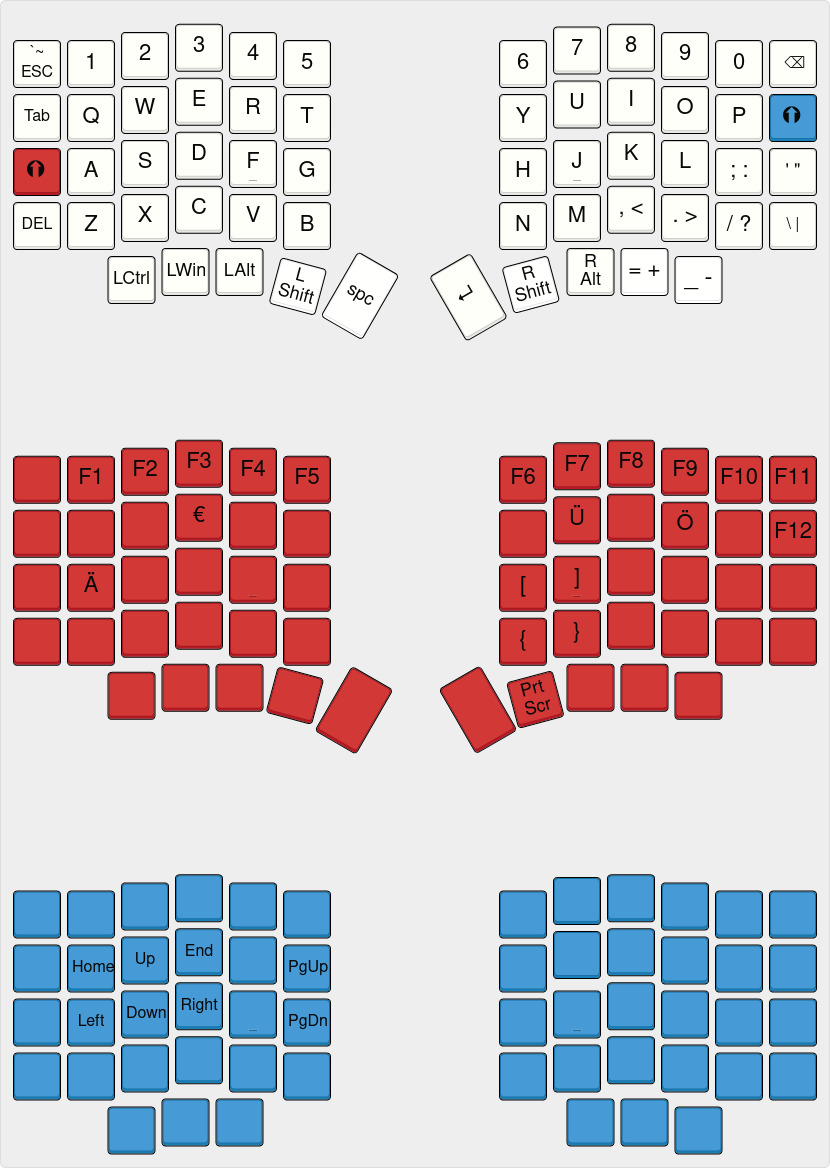
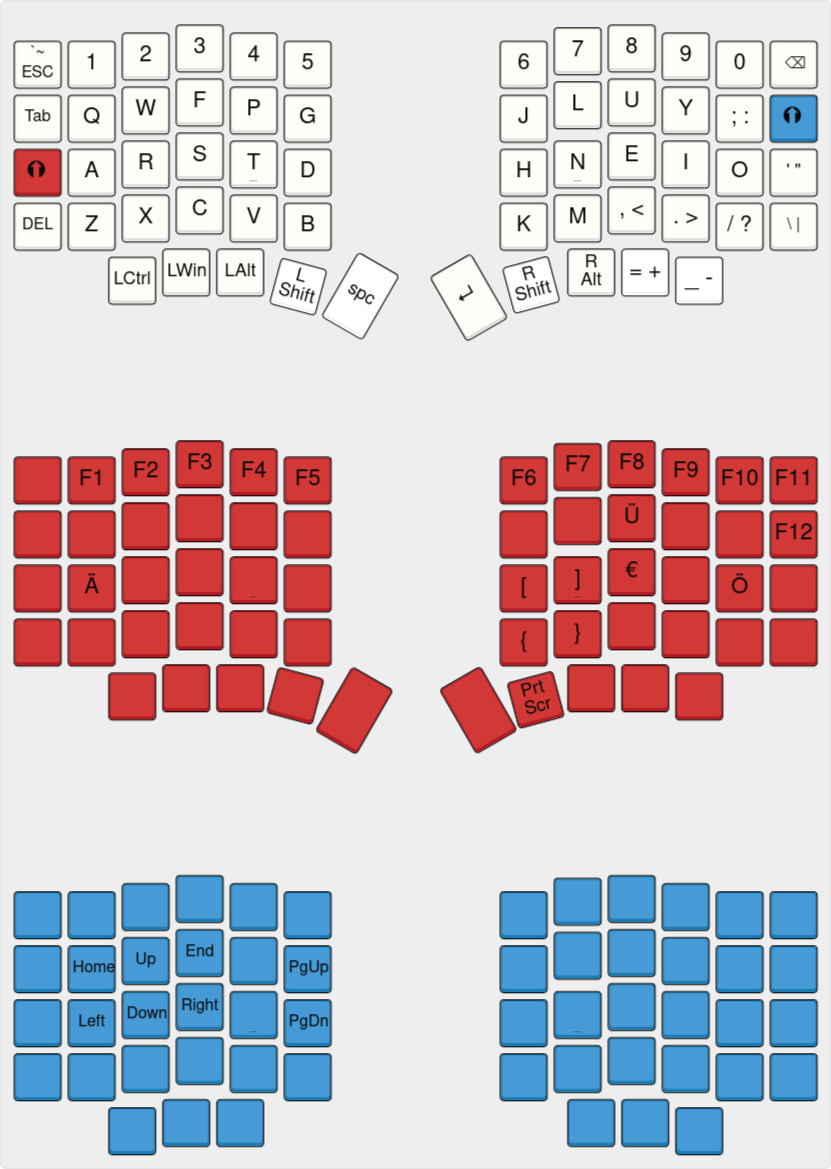
Changed layout Colemak Changed code for QMK 0.17.5

diff --git a/QMK_RGB/keymaps/default/keymap.c b/QMK_RGB/keymaps/default/keymap.c
@@ -66,11 +66,11 @@ const uint16_t PROGMEM keymaps[][MATRIX_ROWS][MATRIX_COLS] = {
   //,---------------------------------------------------.                     ,-----------------------------------------------------.
     TD(TD_GRV), KC_1,    KC_2,    KC_3,    KC_4,    KC_5,                          KC_6,    KC_7,    KC_8,    KC_9,    KC_0, KC_BSPC,
   //|------+--------+--------+--------+--------+--------|                     |--------+--------+--------+--------+--------+--------|
-    LT(_SET,KC_TAB),KC_Q,KC_W,    KC_E,    KC_R,    KC_T,                          KC_Y,    KC_U,    KC_I,    KC_O,    KC_P,MO(_CRS),
+    LT(_SET,KC_TAB),KC_Q,KC_W,    KC_F,    KC_P,    KC_G,                          KC_J,    KC_L,    KC_U,    KC_Y, KC_SCLN,MO(_CRS),
   //|------+--------+--------+--------+--------+--------|                     |--------+--------+--------+--------+--------+--------|
-   MO(_ALT),    KC_A,    KC_S,    KC_D,    KC_F,    KC_G,                          KC_H,    KC_J,    KC_K,    KC_L, KC_SCLN, KC_QUOT,
+   MO(_ALT),    KC_A,    KC_R,    KC_S,    KC_T,    KC_D,                          KC_H,    KC_N,    KC_E,    KC_I,    KC_O, KC_QUOT,
   //|------+--------+--------+--------+--------+--------|                     |--------+--------+--------+--------+--------+--------|
-     KC_DEL,    KC_Z,    KC_X,    KC_C,    KC_V,    KC_B,  KC_MUTE,  KC_MUTE,      KC_N,    KC_M, KC_COMM,  KC_DOT, KC_SLSH, KC_BSLS,
+     KC_DEL,    KC_Z,    KC_X,    KC_C,    KC_V,    KC_B,  KC_MUTE,  KC_MUTE,      KC_K,    KC_M, KC_COMM,  KC_DOT, KC_SLSH, KC_BSLS,
   //|------+--------+--------+--------+--------+--------|                     |--------+--------+--------+--------+--------+--------|
                       KC_LCTL, KC_LGUI, KC_LALT, KC_LSFT,   KC_SPC,     KC_ENT, KC_RSFT, KC_RALT,  KC_EQL, KC_MINS  
   //                \--------+--------+--------+--------+---------|   |-------+--------+--------+--------+-------/
@@ -79,9 +79,9 @@ const uint16_t PROGMEM keymaps[][MATRIX_ROWS][MATRIX_COLS] = {
   //,---------------------------------------------------.                     ,-----------------------------------------------------.
     _______,   KC_F1,   KC_F2,   KC_F3,   KC_F4,   KC_F5,                         KC_F6,   KC_F7,   KC_F8,   KC_F9,  KC_F10,  KC_F11,
   //|------+--------+--------+--------+--------+--------|                     |--------+--------+--------+--------+--------+--------|
-    _______, _______, _______,   ESIGN, _______, _______,                       _______,   UML_U, _______,   UML_O, _______,  KC_F12,
+    _______, _______, _______, _______, _______, _______,                       _______, _______,   UML_U, _______, _______,  KC_F12,
   //|------+--------+--------+--------+--------+--------|                     |--------+--------+--------+--------+--------+--------|
-    _______,   UML_A, _______, _______, _______, _______,                        BRK_L1 , BRK_R1, _______, _______, _______, _______,
+    _______,   UML_A, _______, _______, _______, _______,                        BRK_L1 , BRK_R1,   ESIGN, _______,   UML_O, _______,
   //|------+--------+--------+--------+--------+--------|  =====  |   |  ===  |--------+--------+--------+--------+--------+--------|
     _______, _______, _______, _______ ,_______, _______,  _______,    _______,  BRK_L2,  BRK_R2, _______, _______, _______, _______,
   //|------+--------+--------+--------+--------+--------|  =====  |   |  ===  |--------+--------+--------+--------+--------+--------|
@@ -404,7 +404,7 @@ oled_rotation_t oled_init_user(oled_rotation_t rotation) {
 //
 // Note: The RGB variable stores in different byte order, so the order in the
 // set_color call is different!
-bool rgb_matrix_indicators_advanced_user(uint8_t led_min, uint8_t led_max) {
+void rgb_matrix_indicators_advanced_user(uint8_t led_min, uint8_t led_max) {
   uint8_t layer = get_highest_layer(layer_state);
   if (layer > 0) {
     // Target color for key and downlight leds
@@ -428,6 +428,6 @@ bool rgb_matrix_indicators_advanced_user(uint8_t led_min, uint8_t led_max) {
   } else {
     rgb_matrix_set_color(0,RGB_OFF);
   }
-  return false;
+  return;
 }
 #endif // RGB_MATRIX_ENABLE

diff --git a/QMK_RGB/config.h b/QMK_RGB/config.h
@@ -7,8 +7,8 @@
  * are different! Therefore we need to specify what
  * side we want to compile here
  */
-#define IS_LEFT                                     // We want to build the LEFT side
-// #define IS_RIGHT                                    // We want to build the RIGHT side
+// #define IS_LEFT                                     // We want to build the LEFT side
+#define IS_RIGHT                                    // We want to build the RIGHT side
 #define MASTER_LEFT                                 // Left is the master
 
 /****** Split Configuration */
@@ -45,8 +45,10 @@
 #define RGB_DI_PIN D3                               // LED Data Pin
 #define RGBLED_NUM 72                               // 58 key LEDs, 12 drop lights, 2 indicators
 
+
 #ifdef RGB_MATRIX_ENABLE                            // *** RGB Matrix Config ***
 #define RGB_MATRIX_LED_COUNT RGBLED_NUM
+#define DRIVER_LED_TOTAL RGBLED_NUM
 #define RGB_MATRIX_MAXIMUM_BRIGHTNESS 120           // Maximum brightness
 #define RGB_MATRIX_HUE_STEP 8                       // Step sizes for inc/dec
 #define RGB_MATRIX_SAT_STEP 8
@@ -85,17 +87,17 @@
 #define ENABLE_RGB_MATRIX_TYPING_HEATMAP     
 // #define ENABLE_RGB_MATRIX_DIGITAL_RAIN        
 #define ENABLE_RGB_MATRIX_SOLID_REACTIVE_SIMPLE
-#define ENABLE_RGB_MATRIX_SOLID_REACTIVE
-#define ENABLE_RGB_MATRIX_SOLID_REACTIVE_WIDE
-#define ENABLE_RGB_MATRIX_SOLID_REACTIVE_MULTIWIDE  
-#define ENABLE_RGB_MATRIX_SOLID_REACTIVE_CROSS      
-#define ENABLE_RGB_MATRIX_SOLID_REACTIVE_MULTICROSS
+// #define ENABLE_RGB_MATRIX_SOLID_REACTIVE
+// #define ENABLE_RGB_MATRIX_SOLID_REACTIVE_WIDE
+// #define ENABLE_RGB_MATRIX_SOLID_REACTIVE_MULTIWIDE  
+// #define ENABLE_RGB_MATRIX_SOLID_REACTIVE_CROSS      
+// #define ENABLE_RGB_MATRIX_SOLID_REACTIVE_MULTICROSS
 // #define ENABLE_RGB_MATRIX_SOLID_REACTIVE_NEXUS      
 // #define ENABLE_RGB_MATRIX_SOLID_REACTIVE_MULTINEXUS 
 // #define ENABLE_RGB_MATRIX_SPLASH        
 // #define ENABLE_RGB_MATRIX_MULTISPLASH        
-#define ENABLE_RGB_MATRIX_SOLID_SPLASH       
-#define ENABLE_RGB_MATRIX_SOLID_MULTISPLASH
+// #define ENABLE_RGB_MATRIX_SOLID_SPLASH
+// #define ENABLE_RGB_MATRIX_SOLID_MULTISPLASH
 #endif
 
 #ifdef OLED_ENABLE

diff --git a/README.md b/README.md
@@ -6,6 +6,7 @@ I use the same layout and features on both of them, at least if possible. The Ch
 
 List of features:
 
+- Colemak Layout
 - Alternative Layer with:
   - Umlauts, created with Linux Compose mechanism
   - F1 to F12, brackets and print screen
